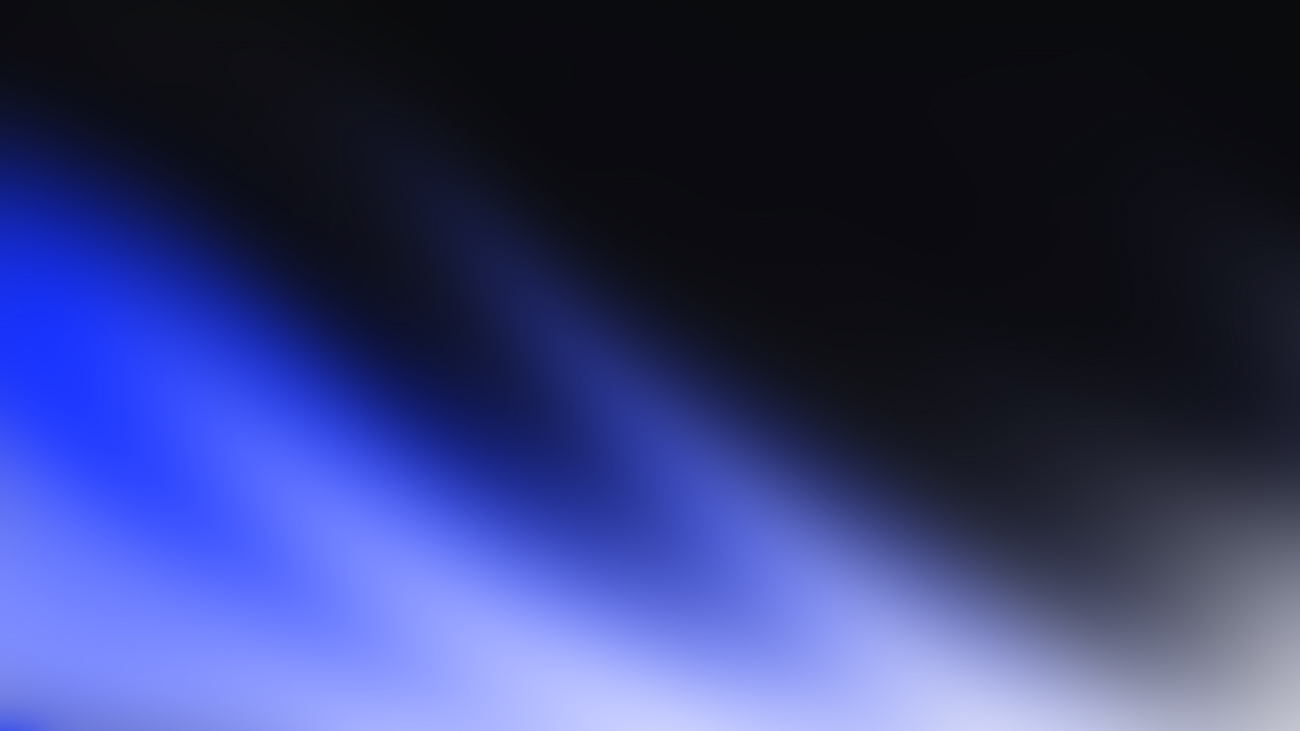
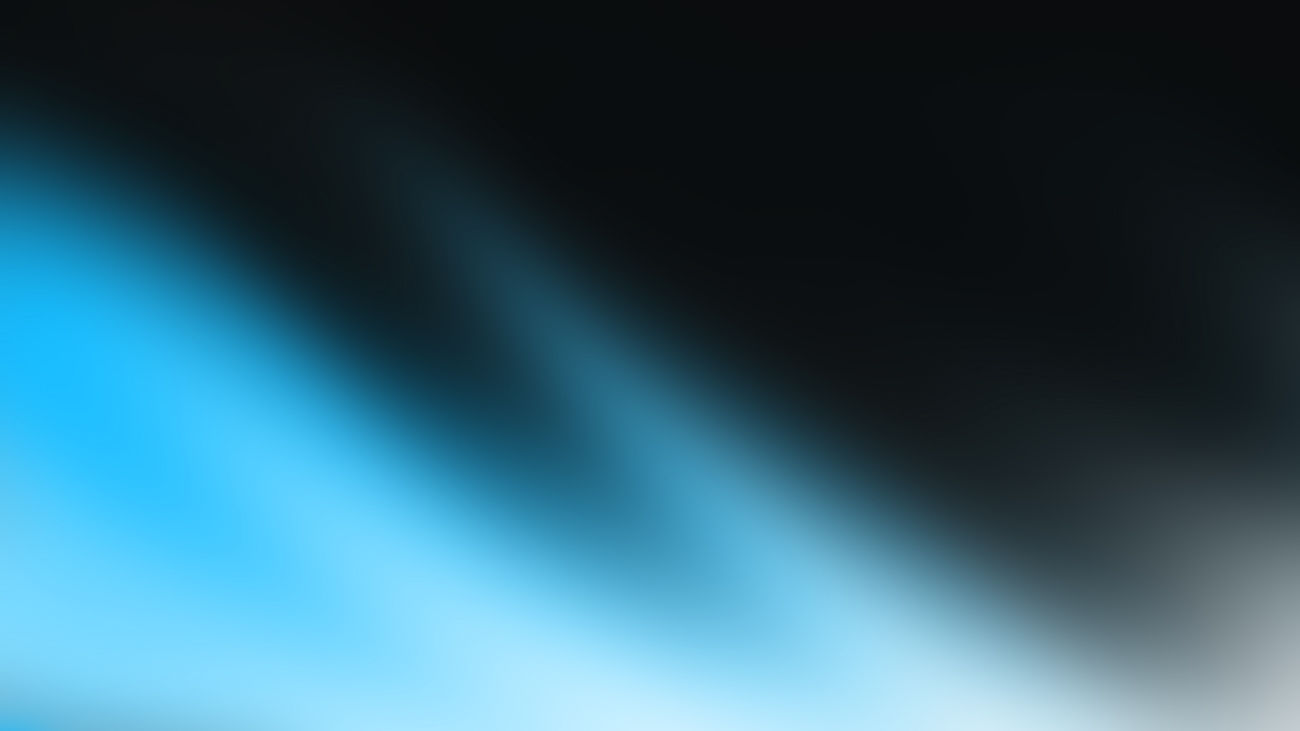
style(nav): flatten active state (no gradient/shadows/glow)
Tone the active item down to a flat accent-wash fill, accent icon,
white label, and a simple flat edge bar. Drop the gradient pill, all
box-shadows, the icon glow, and the hover scale.

diff --git a/web/src/styles.css b/web/src/styles.css
@@ -167,25 +167,21 @@ h1, h2, h3 { font-family: var(--display); letter-spacing: -0.01em; font-weight: 
   font: 600 13px/1 var(--mono);
   transition: color 0.15s ease, background 0.15s ease, border-color 0.15s ease;
 }
-.rail-item svg { transition: transform 0.16s ease, filter 0.16s ease; }
 .rail.expanded .rail-item { width: 100%; justify-content: flex-start; padding: 0 12px; gap: 12px; }
 
 .rail-item:hover { color: var(--text); background: var(--hover); }
-.rail-item:hover svg { transform: scale(1.08); }
 
-/* active — gradient pill, accent edge bar, glowing icon, bright label */
+/* active — flat accent fill + simple edge bar (no shadows/glow) */
 .rail-item.active {
   color: #fff;
-  background: linear-gradient(100deg, rgba(140, 209, 255, 0.18), rgba(140, 209, 255, 0.045));
-  border-color: rgba(140, 209, 255, 0.30);
-  box-shadow: inset 0 1px 0 rgba(255, 255, 255, 0.06), 0 8px 22px -10px rgba(140, 209, 255, 0.45);
+  background: var(--accent-wash);
+  border-color: rgba(140, 209, 255, 0.22);
 }
-.rail-item.active svg { color: var(--accent); filter: drop-shadow(0 0 7px rgba(140, 209, 255, 0.55)); }
+.rail-item.active svg { color: var(--accent); }
 .rail-item.active .rail-label { color: #fff; font-weight: 700; }
 .rail-item.active::before {
   content: ''; position: absolute; top: 50%; transform: translateY(-50%);
   width: 3px; background: var(--accent); border-radius: 0 3px 3px 0;
-  box-shadow: 0 0 8px rgba(140, 209, 255, 0.7);
 }
 .rail:not(.expanded) .rail-item.active::before { left: -14px; height: 22px; }
 .rail.expanded .rail-item.active::before { left: -12px; height: 24px; }